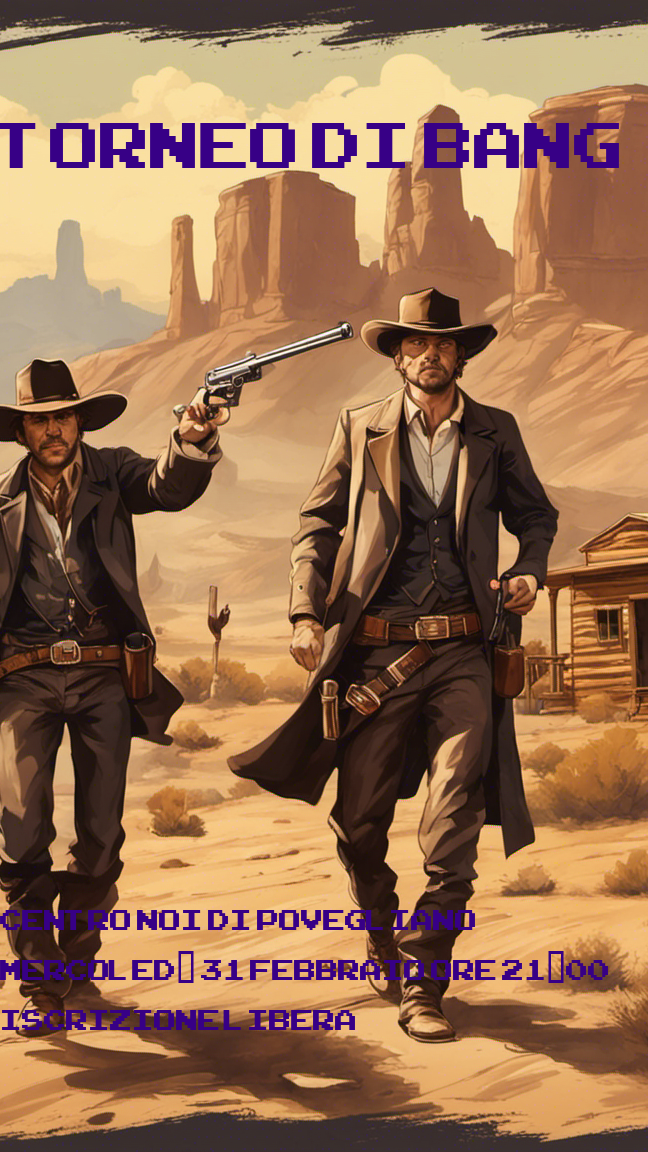
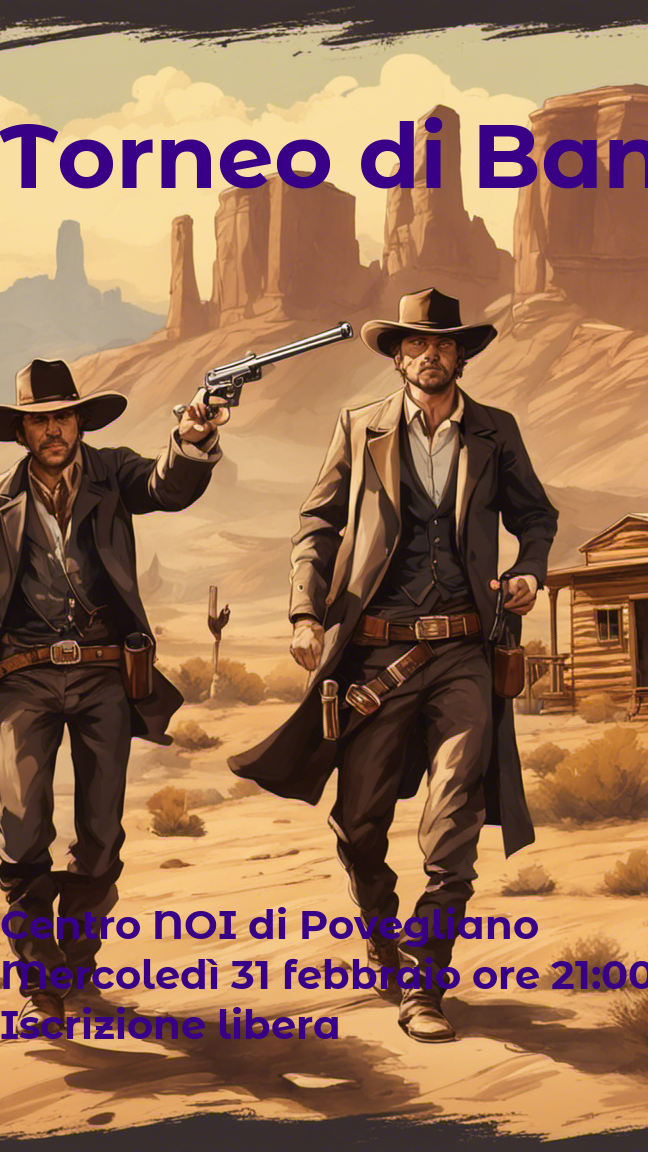
aggiunto funzione per il download del font da google fonts

Changed region(s): [[0.0, 0.7812, 1.0, 0.9062], [0.0, 0.0938, 1.0, 0.1875]]

diff --git a/lambda_functions/create_ig_stories/main.py b/lambda_functions/create_ig_stories/main.py
@@ -28,27 +28,27 @@ def lambda_handler(event: dict, context):
 
     edit_dict = {
         "title": {"text": "Torneo di Bang",
-                  "font": "ARCADECLASSIC.TTF",
+                  "font": "montserratalternates/MontserratAlternates-Bold.ttf",
                   "size": 90, 
                   "color": (55, 0, 134),
                   "position":(0,100)},
         "body": {"text": "",
-                  "font": "ARCADECLASSIC.TTF",
+                  "font": "montserratalternates/MontserratAlternates-Bold.ttf",
                   "size": 80, 
                   "color": (55, 0, 134),
                   "position":(0,0)},
         "location": {"text": "Centro NOI di Povegliano",
-                  "font": "ARCADECLASSIC.TTF",
+                  "font": "montserratalternates/MontserratAlternates-Bold.ttf",
                   "size": 40, 
                   "color": (55, 0, 134),
                   "position":(0,900)},
         "datetime": {"text": "Mercoledì 31 febbraio ore 21:00",
-                  "font": "ARCADECLASSIC.TTF",
+                  "font": "montserratalternates/MontserratAlternates-Bold.ttf",
                   "size": 40, 
                   "color": (55, 0, 134),
                   "position":(0,950)},
         "cost": {"text": "Iscrizione libera",
-                  "font": "ARCADECLASSIC.TTF",
+                  "font": "montserratalternates/MontserratAlternates-Bold.ttf",
                   "size": 40, 
                   "color": (55, 0, 134),
                   "position":(0,1000)}

diff --git a/lambda_functions/create_ig_stories/image_editing.py b/lambda_functions/create_ig_stories/image_editing.py
@@ -1,4 +1,19 @@
 from PIL import Image, ImageFont, ImageDraw 
+import requests
+import io
+
+def get_google_font(font: str, size=24):
+    """
+    Questa funzione scarica temporaneamente da github.com/google/fonts/ il file .ttf del font desiderato.
+    font: stringa indicante il percorso del font su github.com/google/fonts/ nel formato cartella/font_file.ttf
+    size: dimensione del font
+    """
+    url = f"https://github.com/google/fonts/blob/main/ofl/{font}?raw=true"
+    print(url)
+    r = requests.get(url, allow_redirects=True)
+    font = ImageFont.truetype(io.BytesIO(r.content), size=size)
+
+    return font
 
 def crop_image(my_image, aspect_ratio: tuple):
     image  = my_image
@@ -34,7 +49,7 @@ def write_on_image(my_image, edit_dict):
         image_editable.text(edit_dict[scope]["position"], 
                             edit_dict[scope]["text"],
                             edit_dict[scope]["color"],
-                            font=ImageFont.truetype(edit_dict[scope]["font"]
+                            font=get_google_font(edit_dict[scope]["font"]
                                                     , edit_dict[scope]["size"]))
     
     return my_image
